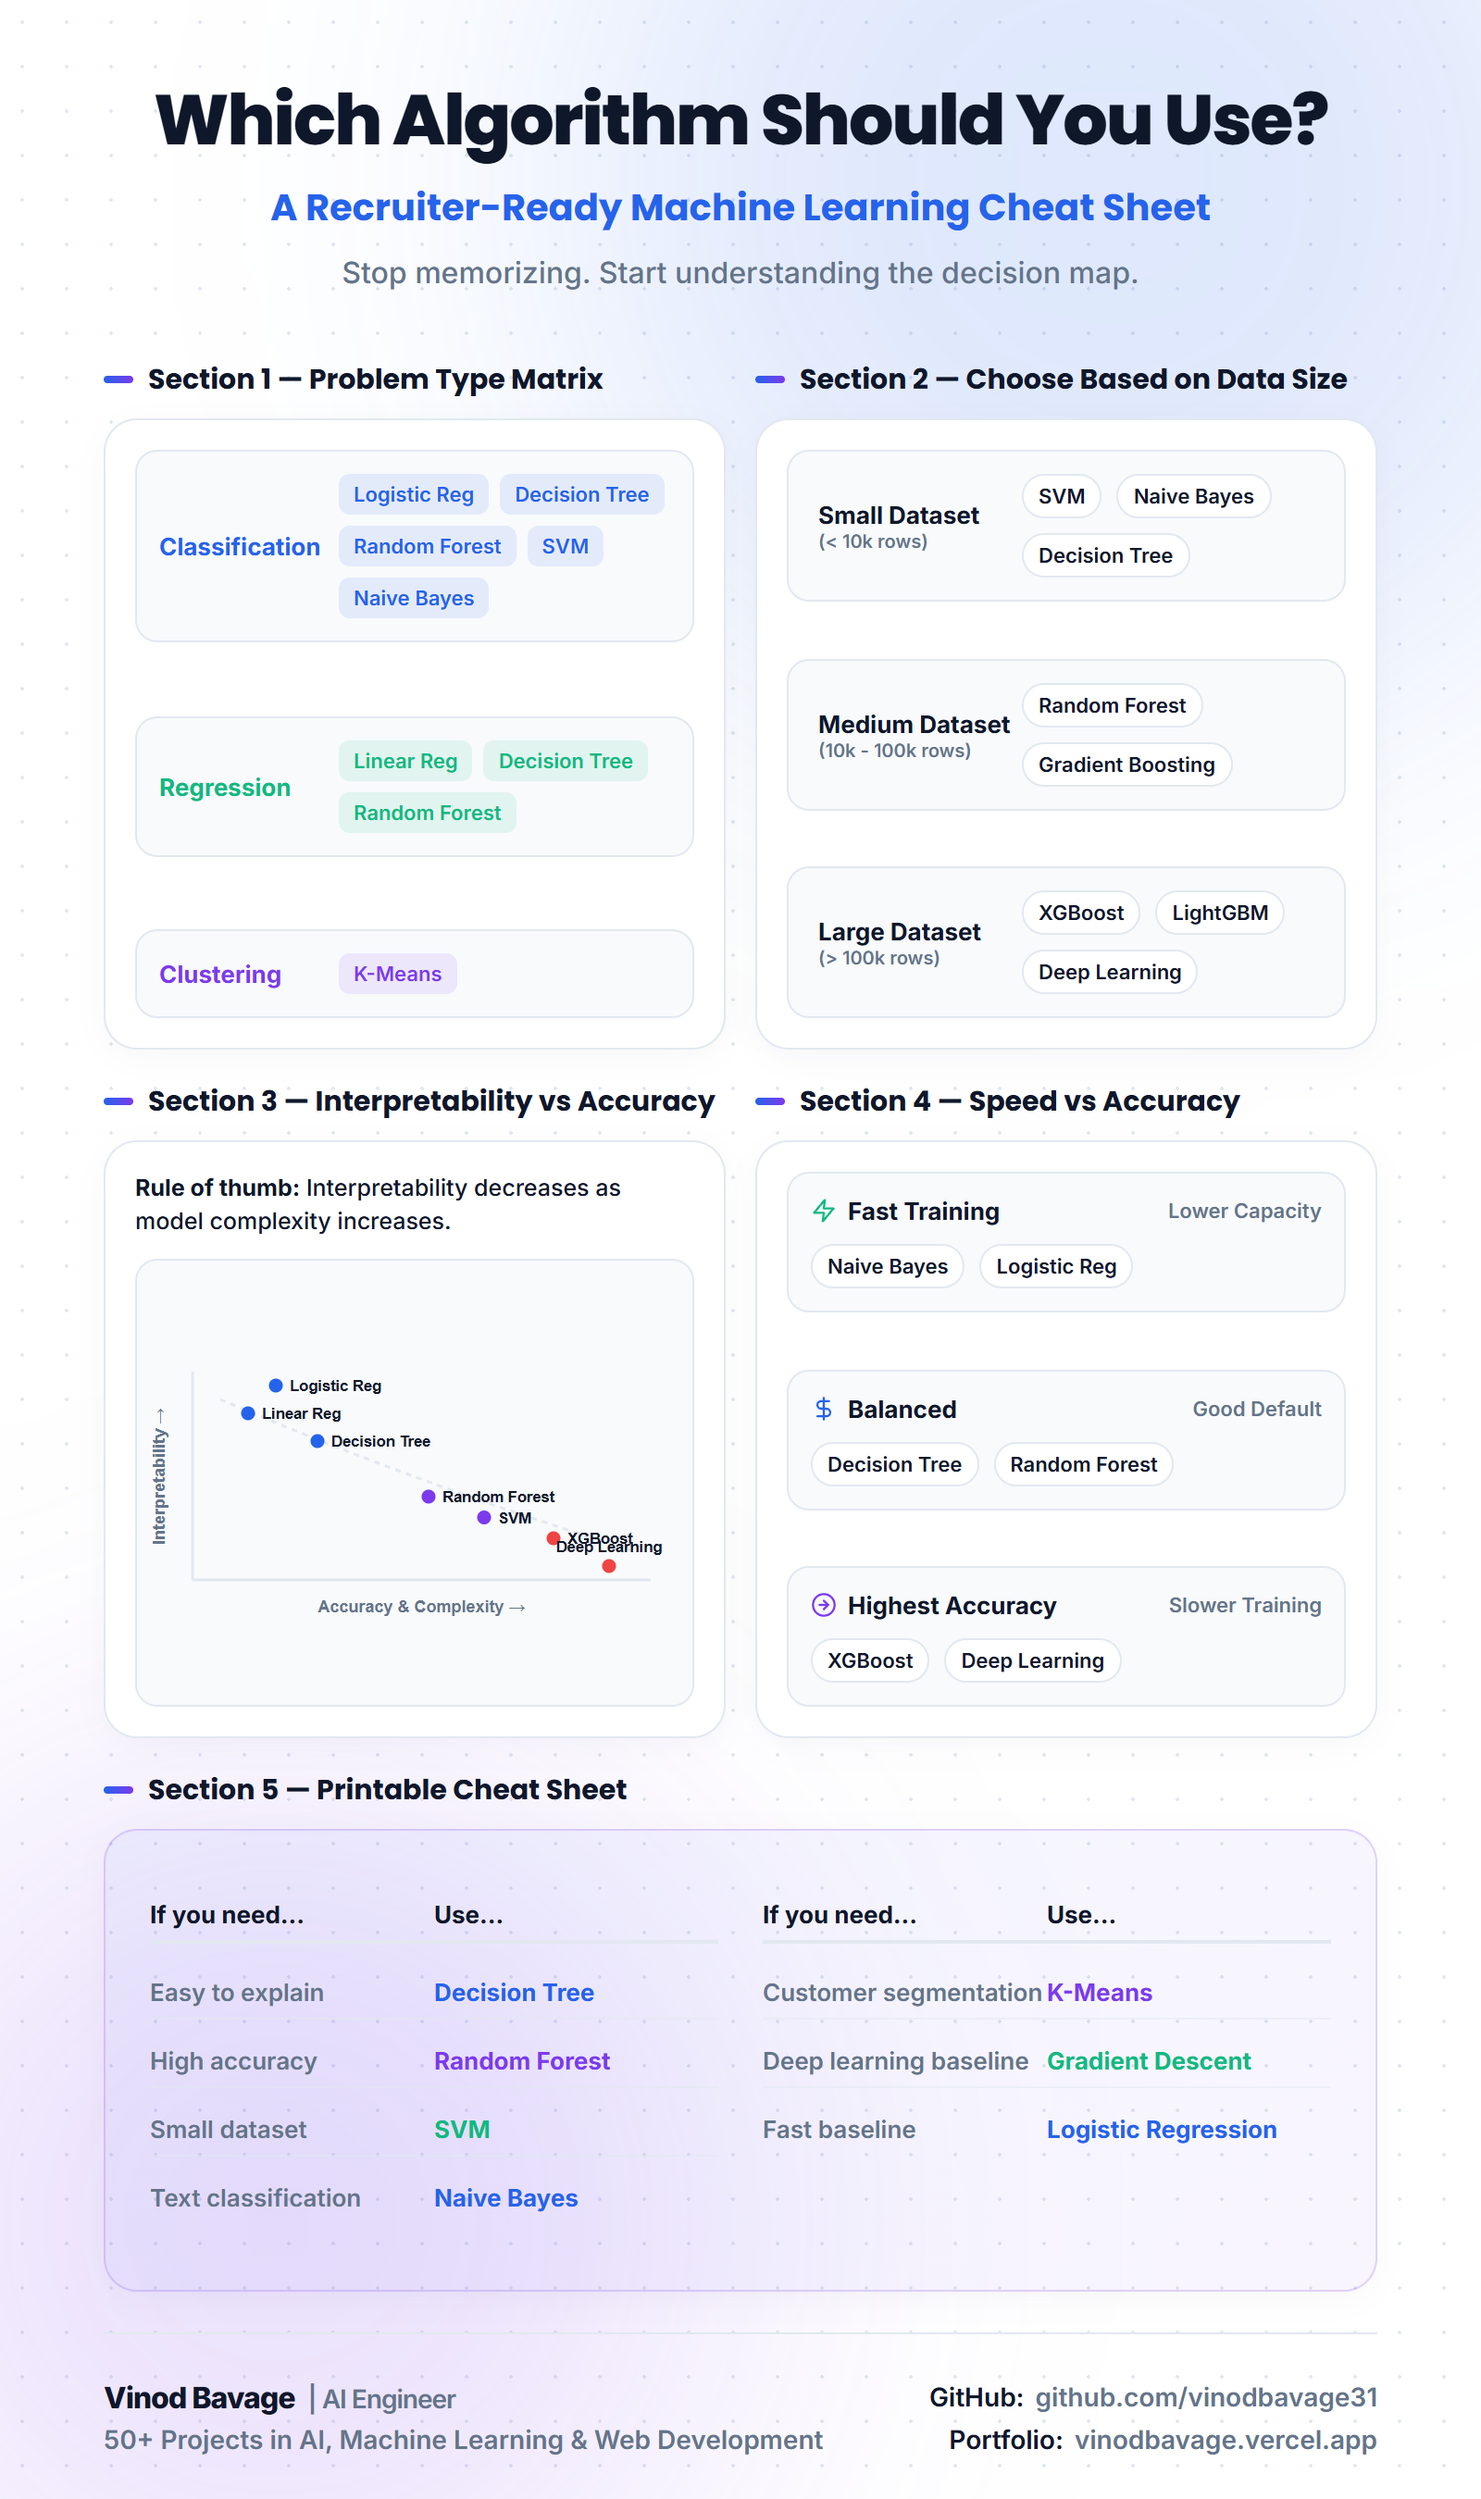
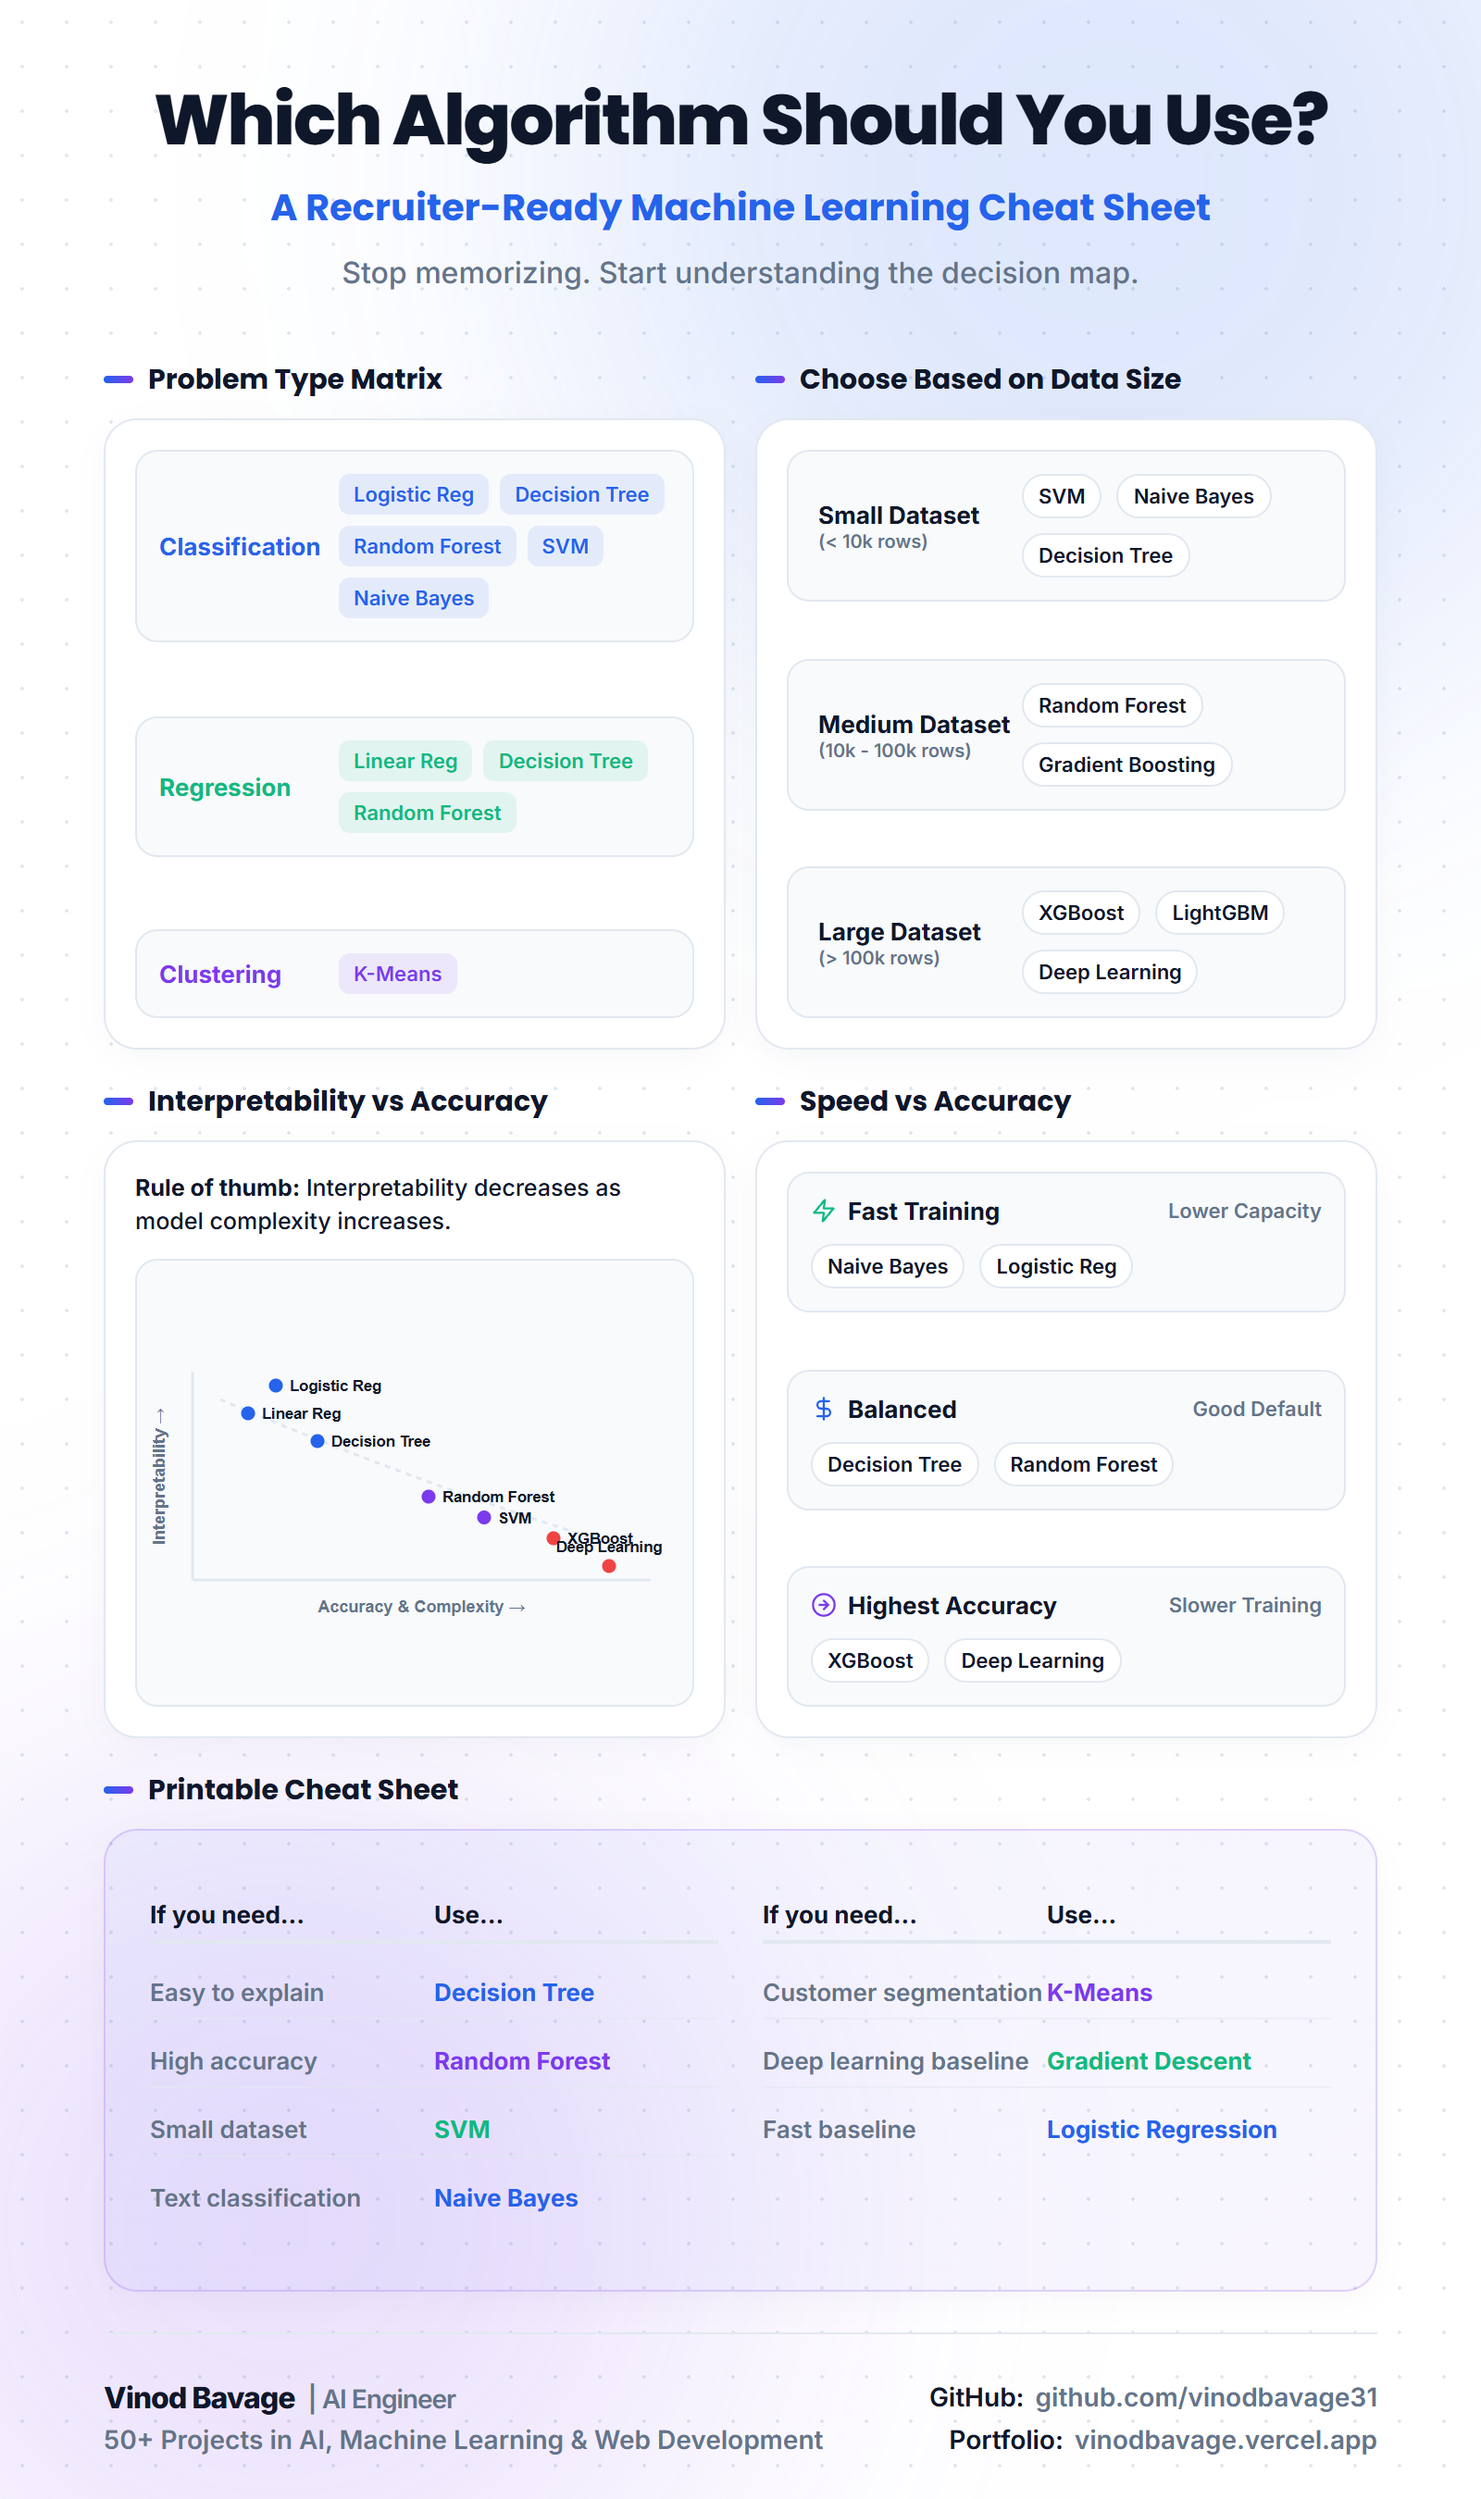
updated day 20 post

diff --git a/posts/day_20/slides.html b/posts/day_20/slides.html
@@ -193,7 +193,7 @@
 
                 <!-- Section 1 : Problem Type Matrix -->
                 <div class="span-2" style="display:flex; flex-direction:column;">
-                    <div class="section-title">Section 1 &mdash; Problem Type Matrix</div>
+                    <div class="section-title">Problem Type Matrix</div>
                     <div class="card" style="flex:1; display:flex; flex-direction:column; gap:12px; background:white;">
                         <div
                             style="display:flex; flex-direction:column; gap:10px; height: 100%; justify-content: space-between;">
@@ -255,7 +255,7 @@
 
                 <!-- Section 2: Choose Based on Data Size -->
                 <div class="span-2" style="display:flex; flex-direction:column;">
-                    <div class="section-title">Section 2 &mdash; Choose Based on Data Size</div>
+                    <div class="section-title">Choose Based on Data Size</div>
                     <div class="card" style="flex:1; display:flex; flex-direction:column; gap:12px; background:white;">
                         <div
                             style="display:flex; flex-direction:column; gap:10px; height: 100%; justify-content: space-between;">
@@ -323,7 +323,7 @@
 
                 <!-- Section 3: Interpretability vs Accuracy -->
                 <div class="span-2" style="display:flex; flex-direction:column;">
-                    <div class="section-title">Section 3 &mdash; Interpretability vs Accuracy</div>
+                    <div class="section-title">Interpretability vs Accuracy</div>
                     <div class="card" style="flex:1; display:flex; flex-direction:column; gap:12px; background:white;">
                         <div style="font-size:12.5px; line-height:1.4; color:var(--text); font-weight:500;">
                             <strong>Rule of thumb:</strong> Interpretability decreases as model complexity increases.
@@ -390,7 +390,7 @@
 
                 <!-- Section 4: Speed vs Accuracy -->
                 <div class="span-2" style="display:flex; flex-direction:column;">
-                    <div class="section-title">Section 4 &mdash; Speed vs Accuracy</div>
+                    <div class="section-title">Speed vs Accuracy</div>
                     <div class="card" style="flex:1; display:flex; flex-direction:column; gap:12px; background:white;">
                         <div
                             style="display:flex; flex-direction:column; gap:10px; height: 100%; justify-content: space-between;">
@@ -484,7 +484,7 @@
 
                 <!-- Section 5: Printable Cheat Sheet -->
                 <div class="span-4" style="display:flex; flex-direction:column;">
-                    <div class="section-title">Section 5 &mdash; Printable Cheat Sheet</div>
+                    <div class="section-title">Printable Cheat Sheet</div>
                     <div class="card"
                         style="flex:1; background:linear-gradient(135deg, rgba(37,99,235,0.05), rgba(124,58,237,0.05)); border:1px solid rgba(124,58,237,0.2); padding:16px 24px; display:flex; flex-direction:column; justify-content:center;">
 
